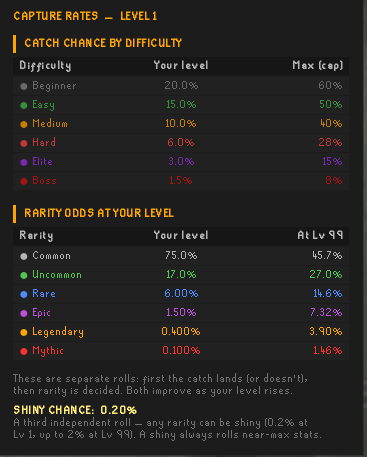
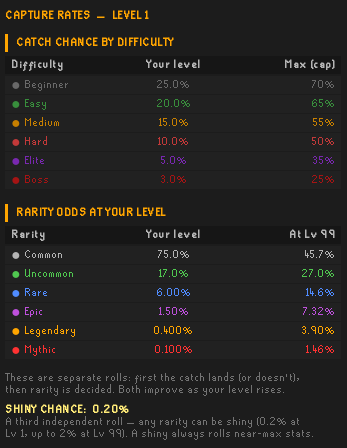
README: refresh catch-rate screenshots for retuned rates
Updated the level-1 image and swapped level-45 for level-52 to match the new
catch-rate curve.

Changed region(s): [[0.0, 0.4375, 0.951, 1.0], [0.0, 0.0, 0.5764, 0.4062], [0.7781, 0.0, 1.0, 1.0]]

diff --git a/README.md b/README.md
@@ -71,12 +71,12 @@ dashboards break down your progression, economy, species completion and best cap
 
 Catch chance depends on the monster's difficulty tier and your Capture Level; rarity is a separate
 roll that also improves as you level. The Info tab spells it all out — including the max rates —
-and it climbs steeply as you grow. A level 1 hunter versus a level 45 one:
+and it climbs steeply as you grow. A level 1 hunter versus a level 52 one:
 
 <table align="center">
   <tr>
     <td align="center"><img src="docs/images/BestiaryLevel1CatchRates.png" width="330"><br><em>Level 1</em></td>
-    <td align="center"><img src="docs/images/BestiaryLevel45CatchRates.png" width="330"><br><em>Level 45</em></td>
+    <td align="center"><img src="docs/images/BestiaryLevel52CatchRates.png" width="330"><br><em>Level 52</em></td>
   </tr>
 </table>
 
